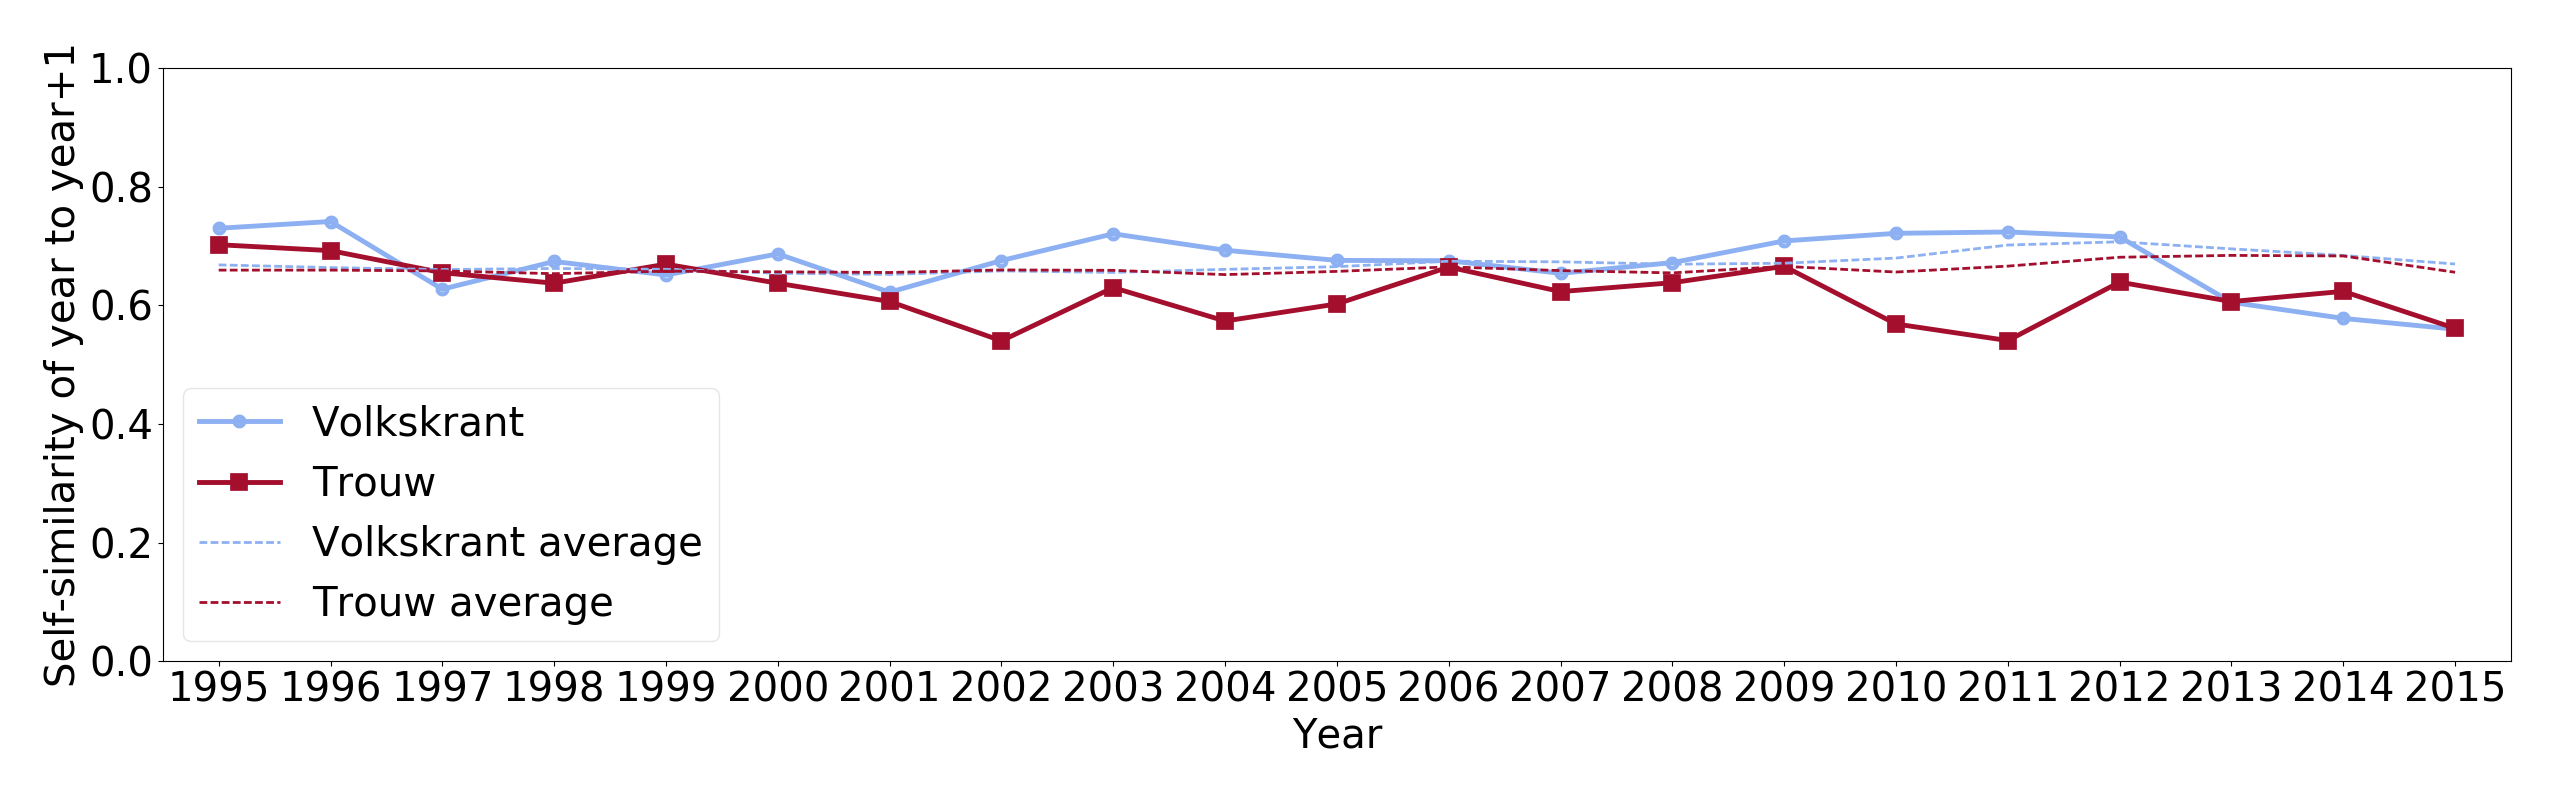
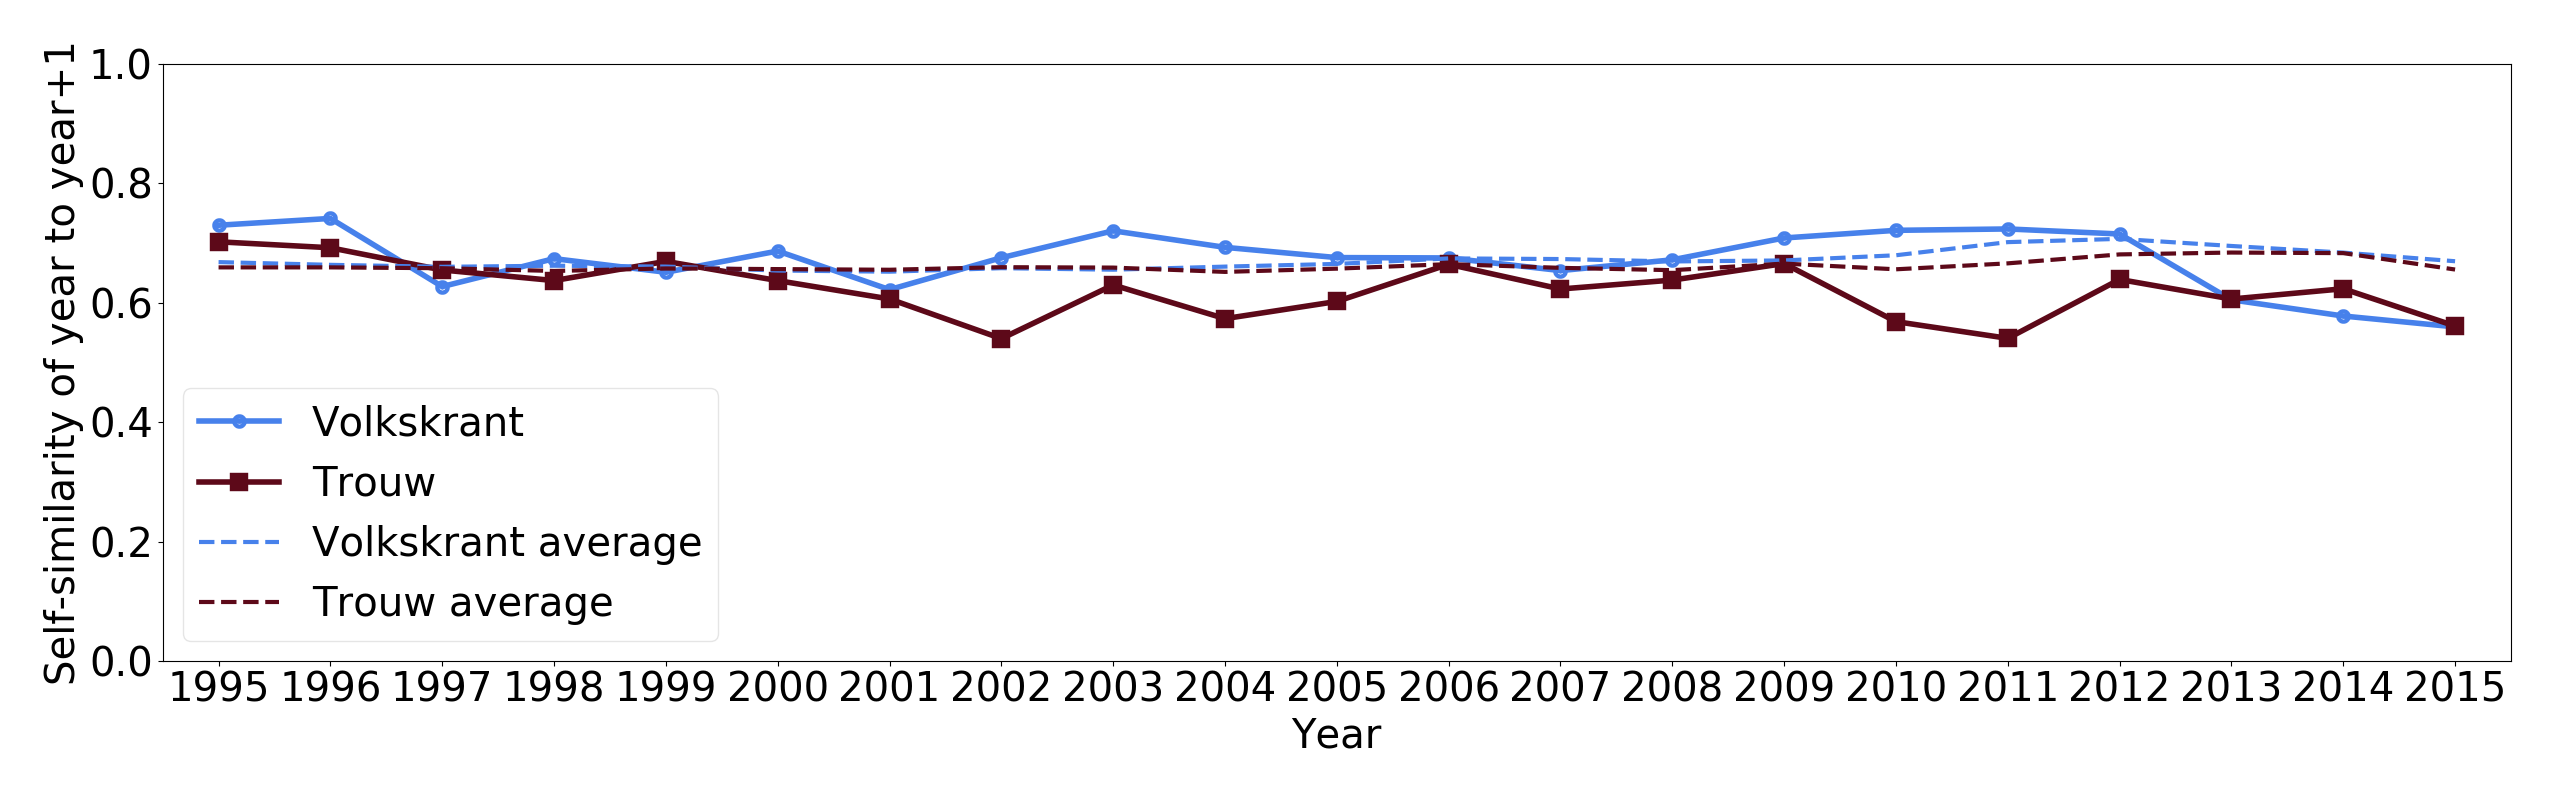
Update plotting script and plots for better visibility in color and b/w

diff --git a/analyze_and_plot_words.py b/analyze_and_plot_words.py
@@ -126,20 +126,20 @@ if args.word:
 	plt.show()
 
 	# Plots for slides/paper
-	# #a30f2d = 35% dark crimson 
-	color_1 = '#a30f2d'
-	# #8db0f2 = 75% dark cornflowerblue
-	color_2 = '#8db0f2'
+	# #5d0919 = 20% dark crimson 
+	color_1 = '#5d0919'
+	# #4781eb = 60% dark cornflowerblue
+	color_2 = '#4781eb'
 	
 	plt.rcParams.update({'font.size': 29})
-	fig = plt.figure(1, figsize=(36,8), tight_layout = True)
-	lines = plt.plot(years, volkskrant_similarity, linestyle='solid', color=color_2, label='Volkskrant', linewidth = 3.5, markeredgewidth = 7.0)
+	fig = plt.figure(1, figsize=(25.58,8), tight_layout = True)
+	lines = plt.plot(years, volkskrant_similarity, linestyle='solid', color=color_2, label='Volkskrant', linewidth = 4.0, markeredgewidth = 7.5)
 	plt.setp(lines, marker = '.')
-	lines = plt.plot(years, trouw_similarity, linestyle='solid', color=color_1, label='Trouw', linewidth = 3.5, markeredgewidth = 7.0)
+	lines = plt.plot(years, trouw_similarity, linestyle='solid', color=color_1, label='Trouw', linewidth = 4.0, markeredgewidth = 7.5)
 	plt.setp(lines, marker = 's')
 	if args.avg:
-		lines = plt.plot(years, volkskrant_average_similarity, linestyle='dashed', color=color_2, label='Volkskrant average', linewidth = 2.0)
-		lines = plt.plot(years, trouw_average_similarity, linestyle='dashed', color=color_1, label='Trouw average', linewidth = 2.0)
+		lines = plt.plot(years, volkskrant_average_similarity, linestyle='dashed', color=color_2, label='Volkskrant average', linewidth = 3.0)
+		lines = plt.plot(years, trouw_average_similarity, linestyle='dashed', color=color_1, label='Trouw average', linewidth = 3.0)
 	plt.legend(framealpha=0.5)
 	plt.ylim(0,1)
 	plt.xlim(years[0]-.5,years[-1]+.5)
@@ -150,10 +150,10 @@ if args.word:
 	plt.show()
 
 	plt.rcParams.update({'font.size': 29})
-	fig = plt.figure(1, figsize=(36,8), tight_layout = True)
-	lines = plt.plot(years, volkskrant_frequency, linestyle='solid', color=color_2, label='Volkskrant', linewidth = 3.5, markeredgewidth = 7.0)
+	fig = plt.figure(1, figsize=(25.58,8), tight_layout = True)
+	lines = plt.plot(years, volkskrant_frequency, linestyle='solid', color=color_2, label='Volkskrant', linewidth = 4.0, markeredgewidth = 7.5)
 	plt.setp(lines, marker = '.')
-	lines = plt.plot(years, trouw_frequency, linestyle='solid', color=color_1, label='Trouw', linewidth = 3.5, markeredgewidth = 7.0)
+	lines = plt.plot(years, trouw_frequency, linestyle='solid', color=color_1, label='Trouw', linewidth = 4.0, markeredgewidth = 7.5)
 	plt.setp(lines, marker = 's')
 	plt.legend(framealpha=0.5)
 	plt.ylim(0,)
